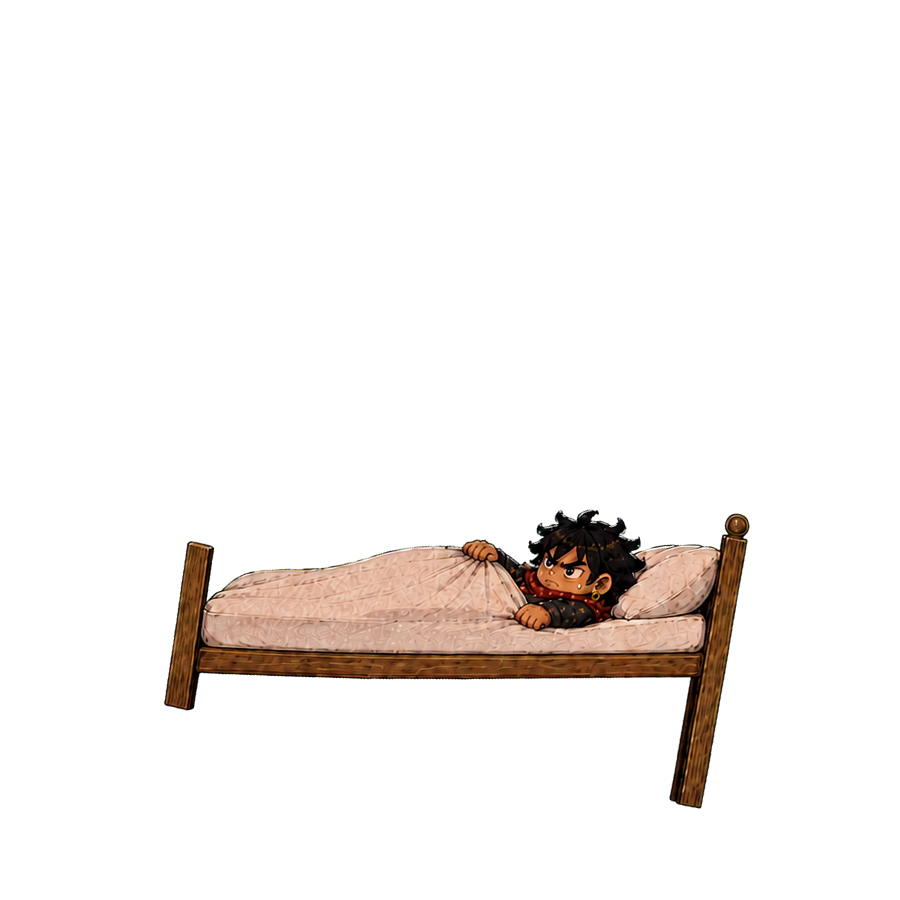
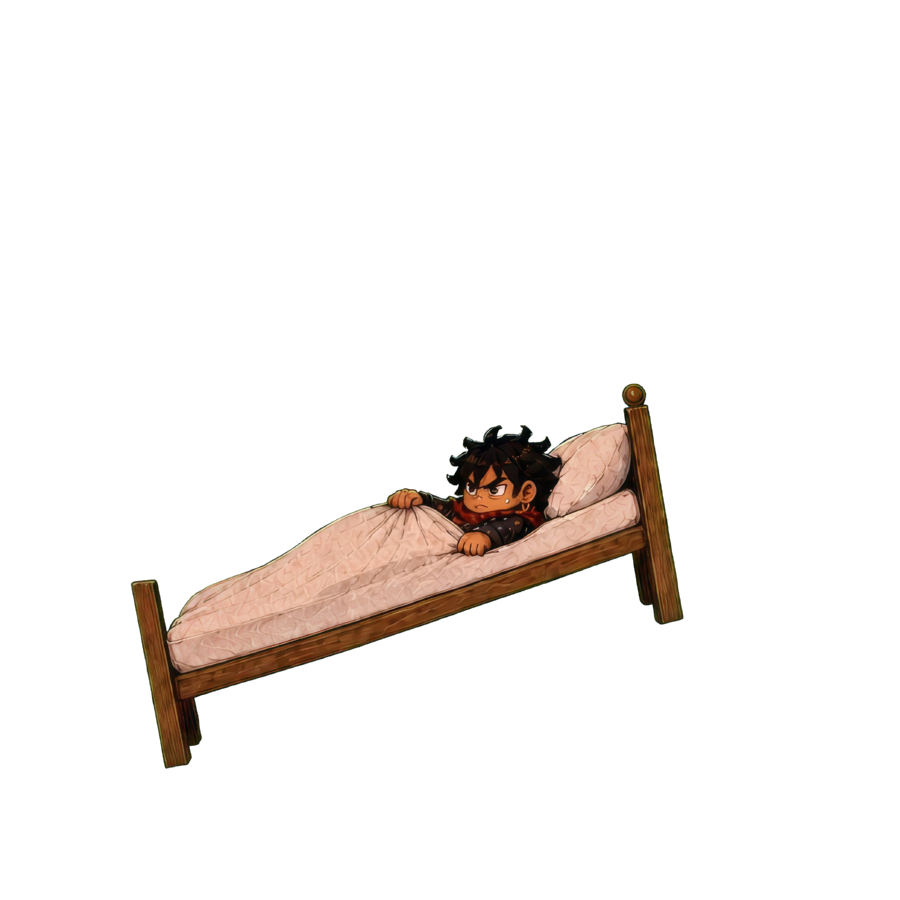
better bed animation

Changed region(s): [[0.1244, 0.4044, 0.84, 0.9022]]

diff --git a/src/play/phaser/layouts/episodeConfrontationLayout.ts b/src/play/phaser/layouts/episodeConfrontationLayout.ts
@@ -54,6 +54,11 @@ export function createEpisodeConfrontationLayout(
   resistanceContainer.add(resistanceImages);
   let activeResistanceSlot = 0;
   let activeResistanceState = 0;
+  const slotDrawnAngle = [
+    resistanceVisual.states[0].drawnAngleDegrees,
+    resistanceVisual.states[0].drawnAngleDegrees,
+  ];
+  let smoothedLiftDegrees = 0;
   const reducedMotion = globalThis.matchMedia?.("(prefers-reduced-motion: reduce)")
     .matches ?? false;
   const resistanceMotion = resolveResistanceTransition(
@@ -74,6 +79,7 @@ export function createEpisodeConfrontationLayout(
     scene.tweens.killTweensOf(incoming);
     scene.tweens.killTweensOf(resistanceContainer);
     resistanceContainer.setPosition(resistanceVisual.x, resistanceVisual.y);
+    slotDrawnAngle[incomingSlot] = resistanceVisual.states[targetState].drawnAngleDegrees;
     incoming
       .setTexture(resistanceVisual.states[targetState].asset.id)
       .setDisplaySize(resistanceVisual.width, resistanceVisual.height)
@@ -164,16 +170,19 @@ export function createEpisodeConfrontationLayout(
         physicalDanger,
         resistanceVisual.dangerAngleDegrees,
       );
-      const currentAngle = Phaser.Math.RadToDeg(resistanceContainer.rotation);
-      resistanceContainer.setRotation(Phaser.Math.DegToRad(
-        smoothResistanceAngleDegrees(
-          currentAngle,
-          targetAngle,
-          Math.min(scene.game.loop.delta, MAXIMUM_FRAME_DELTA_MS),
-          resistanceMotion.rotationResponseMs,
-        ),
-      ));
+      smoothedLiftDegrees = smoothResistanceAngleDegrees(
+        smoothedLiftDegrees,
+        targetAngle,
+        Math.min(scene.game.loop.delta, MAXIMUM_FRAME_DELTA_MS),
+        resistanceMotion.rotationResponseMs,
+      );
       transitionToResistance(selectResistanceStateIndex(physicalDanger, resistanceVisual.states));
+      // Rotate each slot by the part of the lift its own drawing is missing, so
+      // the subject holds one continuous angle while the artwork beneath it
+      // changes. A state swap becomes a change of drawing rather than a jump.
+      resistanceImages.forEach((image, slot) => {
+        image.setRotation(Phaser.Math.DegToRad(smoothedLiftDegrees - slotDrawnAngle[slot]));
+      });
       workLight.setAlpha(presentation.workLightAlpha);
 
       skin.confrontation.environment.intensityParts.forEach((layer, index) => {

diff --git a/sound/index.html b/sound/index.html
@@ -54,6 +54,10 @@
         flex: 1 1 260px;
         accent-color: var(--colour-resistance-red);
       }
+      .grounding {
+        font-size: 0.95rem;
+        opacity: 0.8;
+      }
       .sound-transport output {
         min-width: 4ch;
         font-variant-numeric: tabular-nums;
@@ -65,6 +69,7 @@
     <header class="site-header">
       <a class="site-name" href="/">The Horizontal Front</a>
       <nav aria-label="Primary navigation">
+        <a href="/">Home</a>
         <a href="/play/">Play</a>
         <a href="/commons/">The Commons</a>
         <a href="/sound/" aria-current="page">Sound</a>
@@ -76,6 +81,7 @@
         <p class="eyebrow">Bureaucracy as percussion.</p>
         <h1 id="page-title">The Sound Library</h1>
         <p class="brief">Every sound in the game, free to listen to and free to reuse.</p>
+        <p class="grounding" id="grounding"></p>
         <p class="lede">There are no audio files here. Each sound is built from a few lines of numbers the moment you press the button — a rubber stamp is two layers of maths, a phone is three. Nothing was sampled, nothing was recorded, and nothing needs clearing. The whole library is a few kilobytes of JSON.</p>
       </section>
 
@@ -98,7 +104,7 @@
 
       <section aria-labelledby="score-title">
         <h2 id="score-title">The whole score</h2>
-        <p>Hear the compiled rhythm of <em>The Alarm</em>: the count-in, the pulse underneath, and the sided demands that accent it — left and right differ in pitch as well as position, so the two can be told apart on any speaker.</p>
+        <p>Hear the compiled rhythm of <em id="score-episode"></em>: the count-in, the pulse underneath, and the sided demands that accent it — left and right differ in pitch as well as position, so the two can be told apart on any speaker.</p>
         <div class="sound-transport">
           <button id="play-score" class="primary-action" type="button">Play the score</button>
           <button id="stop-all" class="secondary-action" type="button">Stop</button>

diff --git a/src/site/pages/sound.html b/src/site/pages/sound.html
@@ -54,6 +54,10 @@
         flex: 1 1 260px;
         accent-color: var(--colour-resistance-red);
       }
+      .grounding {
+        font-size: 0.95rem;
+        opacity: 0.8;
+      }
       .sound-transport output {
         min-width: 4ch;
         font-variant-numeric: tabular-nums;
@@ -65,6 +69,7 @@
     <header class="site-header">
       <a class="site-name" href="/">The Horizontal Front</a>
       <nav aria-label="Primary navigation">
+        <a href="/">Home</a>
         <a href="/play/">Play</a>
         <a href="/commons/">The Commons</a>
         <a href="/sound/" aria-current="page">Sound</a>
@@ -76,6 +81,7 @@
         <p class="eyebrow">Bureaucracy as percussion.</p>
         <h1 id="page-title">The Sound Library</h1>
         <p class="brief">Every sound in the game, free to listen to and free to reuse.</p>
+        <p class="grounding" id="grounding"></p>
         <p class="lede">There are no audio files here. Each sound is built from a few lines of numbers the moment you press the button — a rubber stamp is two layers of maths, a phone is three. Nothing was sampled, nothing was recorded, and nothing needs clearing. The whole library is a few kilobytes of JSON.</p>
       </section>
 
@@ -98,7 +104,7 @@
 
       <section aria-labelledby="score-title">
         <h2 id="score-title">The whole score</h2>
-        <p>Hear the compiled rhythm of <em>The Alarm</em>: the count-in, the pulse underneath, and the sided demands that accent it — left and right differ in pitch as well as position, so the two can be told apart on any speaker.</p>
+        <p>Hear the compiled rhythm of <em id="score-episode"></em>: the count-in, the pulse underneath, and the sided demands that accent it — left and right differ in pitch as well as position, so the two can be told apart on any speaker.</p>
         <div class="sound-transport">
           <button id="play-score" class="primary-action" type="button">Play the score</button>
           <button id="stop-all" class="secondary-action" type="button">Stop</button>

diff --git a/tests/browser/accessibility.e2e.ts b/tests/browser/accessibility.e2e.ts
@@ -63,6 +63,32 @@ test("the public landing page has no accessibility violations", async ({ page })
   await expectNoViolations(page, "landing page");
 });
 
+test("every page offers the same way home", async ({ page }) => {
+  // The wordmark links home, but it is styled as a wordmark rather than a link,
+  // so it cannot be the only route back. Each page carries an explicit one.
+  for (const path of [
+    "/", "/commons/", "/sound/",
+    "/charter/", "/governance/", "/identity/", "/contribute/", "/licences/",
+  ]) {
+    await page.goto(path);
+    const primary = page.getByRole("navigation", { name: "Primary navigation" });
+    await expect(
+      primary.getByRole("link", { name: "Home" }),
+      `${path} must offer a way back to the homepage`,
+    ).toBeVisible();
+    await expect(
+      primary.getByRole("link", { name: "Sound" }),
+      `${path} must reach the sound library`,
+    ).toBeVisible();
+  }
+
+  await page.goto("/charter/");
+  await page.getByRole("navigation", { name: "Primary navigation" })
+    .getByRole("link", { name: "Home" }).click();
+  await expect(page).toHaveURL(/\/$/);
+  await expect(page.getByRole("heading", { name: "The Horizontal Front" })).toBeVisible();
+});
+
 test("the sound library is reachable, operable and free of violations", async ({ page }) => {
   await page.goto("/");
   await page.getByRole("navigation", { name: "Primary navigation" })
@@ -81,6 +107,11 @@ test("the sound library is reachable, operable and free of violations", async ({
 
   const intensity = page.getByRole("slider", { name: /dramatic intensity/i });
   await expect(intensity).toBeVisible();
+
+  // The library is the palette of one real episode, and says so from content
+  // rather than from copy typed into the page.
+  await expect(page.locator("#grounding")).toHaveText(/The Alarm.*The Monday Uprising/);
+  await expect(page.locator("#score-episode")).toHaveText("The Alarm");
 });
 
 test("every game screen exposes its chrome to assistive technology", async ({ page }) => {

diff --git a/src/site/soundLibrary.ts b/src/site/soundLibrary.ts
@@ -13,6 +13,7 @@ import type { AudioCueRole } from "../play/content/schemas/audioSchema";
  * make. Nothing is downloaded: every sound is built from the numbers in
  * `src/play/content/audio/cues/` at the moment you press the button.
  */
+const campaign = game.campaigns[0];
 const episode = game.entryEpisode;
 const soundscape = episode.audio;
 const resistance = episode.confrontation.resistance;
@@ -142,6 +143,17 @@ document.querySelector("#play-score")?.addEventListener("click", () => {
 });
 
 document.querySelector("#stop-all")?.addEventListener("click", stopScore);
+
+// The library is not abstract: it is the palette one real episode is scored
+// with, and naming which keeps the page honest about what is being auditioned.
+const grounding = document.querySelector("#grounding");
+if (grounding) {
+  grounding.textContent = `Grounded in ${episode.title}, the opening episode of `
+    + `${campaign.title} — the soundscape below is the one that episode plays.`;
+}
+
+const scoreEpisode = document.querySelector("#score-episode");
+if (scoreEpisode) scoreEpisode.textContent = episode.title;
 
 const summary = document.querySelector("#library-summary");
 if (summary) {

diff --git a/src/play/content/schemas/presentationSchema.ts b/src/play/content/schemas/presentationSchema.ts
@@ -248,6 +248,15 @@ const resistanceVisualSchema = z.object({
   states: z.array(z.object({
     minimumDanger: unitIntervalSchema,
     asset: ownedContentReferenceSchema,
+    /**
+     * How far this artwork is already drawn into the lift, relative to the
+     * resting state.
+     *
+     * Telling the engine what each drawing already depicts lets it hold one
+     * continuous angle and compensate as the texture swaps, so a set of discrete
+     * drawings reads as a single rotation rather than a series of steps.
+     */
+    drawnAngleDegrees: z.number().min(-90).max(90),
   }).strict()).min(1),
   transition: z.object({
     crossfadeDurationMs: z.number().int().positive().max(1_000),

diff --git a/tests/play/content/presentation.test.ts b/tests/play/content/presentation.test.ts
@@ -103,8 +103,9 @@ describe("presentation content", () => {
     expect(presentation.skin.confrontation.resistance).toMatchObject({
       width: 850,
       height: 850,
-      dangerAngleDegrees: -34.1,
     });
+    // How far the engine rotates is tuning — it depends on how much of the lift
+    // the artwork itself carries. That it rotates the head upwards is not.
     expect(presentation.skin.confrontation.resistance.dangerAngleDegrees)
       .toBeLessThan(0);
     expect(presentation.skin.confrontation.resistance.reducedMotion).toEqual({

diff --git a/src/site/pages/commons.html b/src/site/pages/commons.html
@@ -15,6 +15,7 @@
     <header class="site-header">
       <a class="site-name" href="/">The Horizontal Front</a>
       <nav aria-label="Primary navigation">
+        <a href="/">Home</a>
         <a href="/play/">Play</a>
         <a href="/commons/" aria-current="page">The Commons</a>
         <a href="/sound/">Sound</a>

diff --git a/src/site/pages/home.html b/src/site/pages/home.html
@@ -15,6 +15,7 @@
     <header class="site-header">
       <a class="site-name" href="/">The Horizontal Front</a>
       <nav aria-label="Primary navigation">
+        <a href="/" aria-current="page">Home</a>
         <a href="/play/">Play</a>
         <a href="/commons/">The Commons</a>
         <a href="/sound/">Sound</a>
